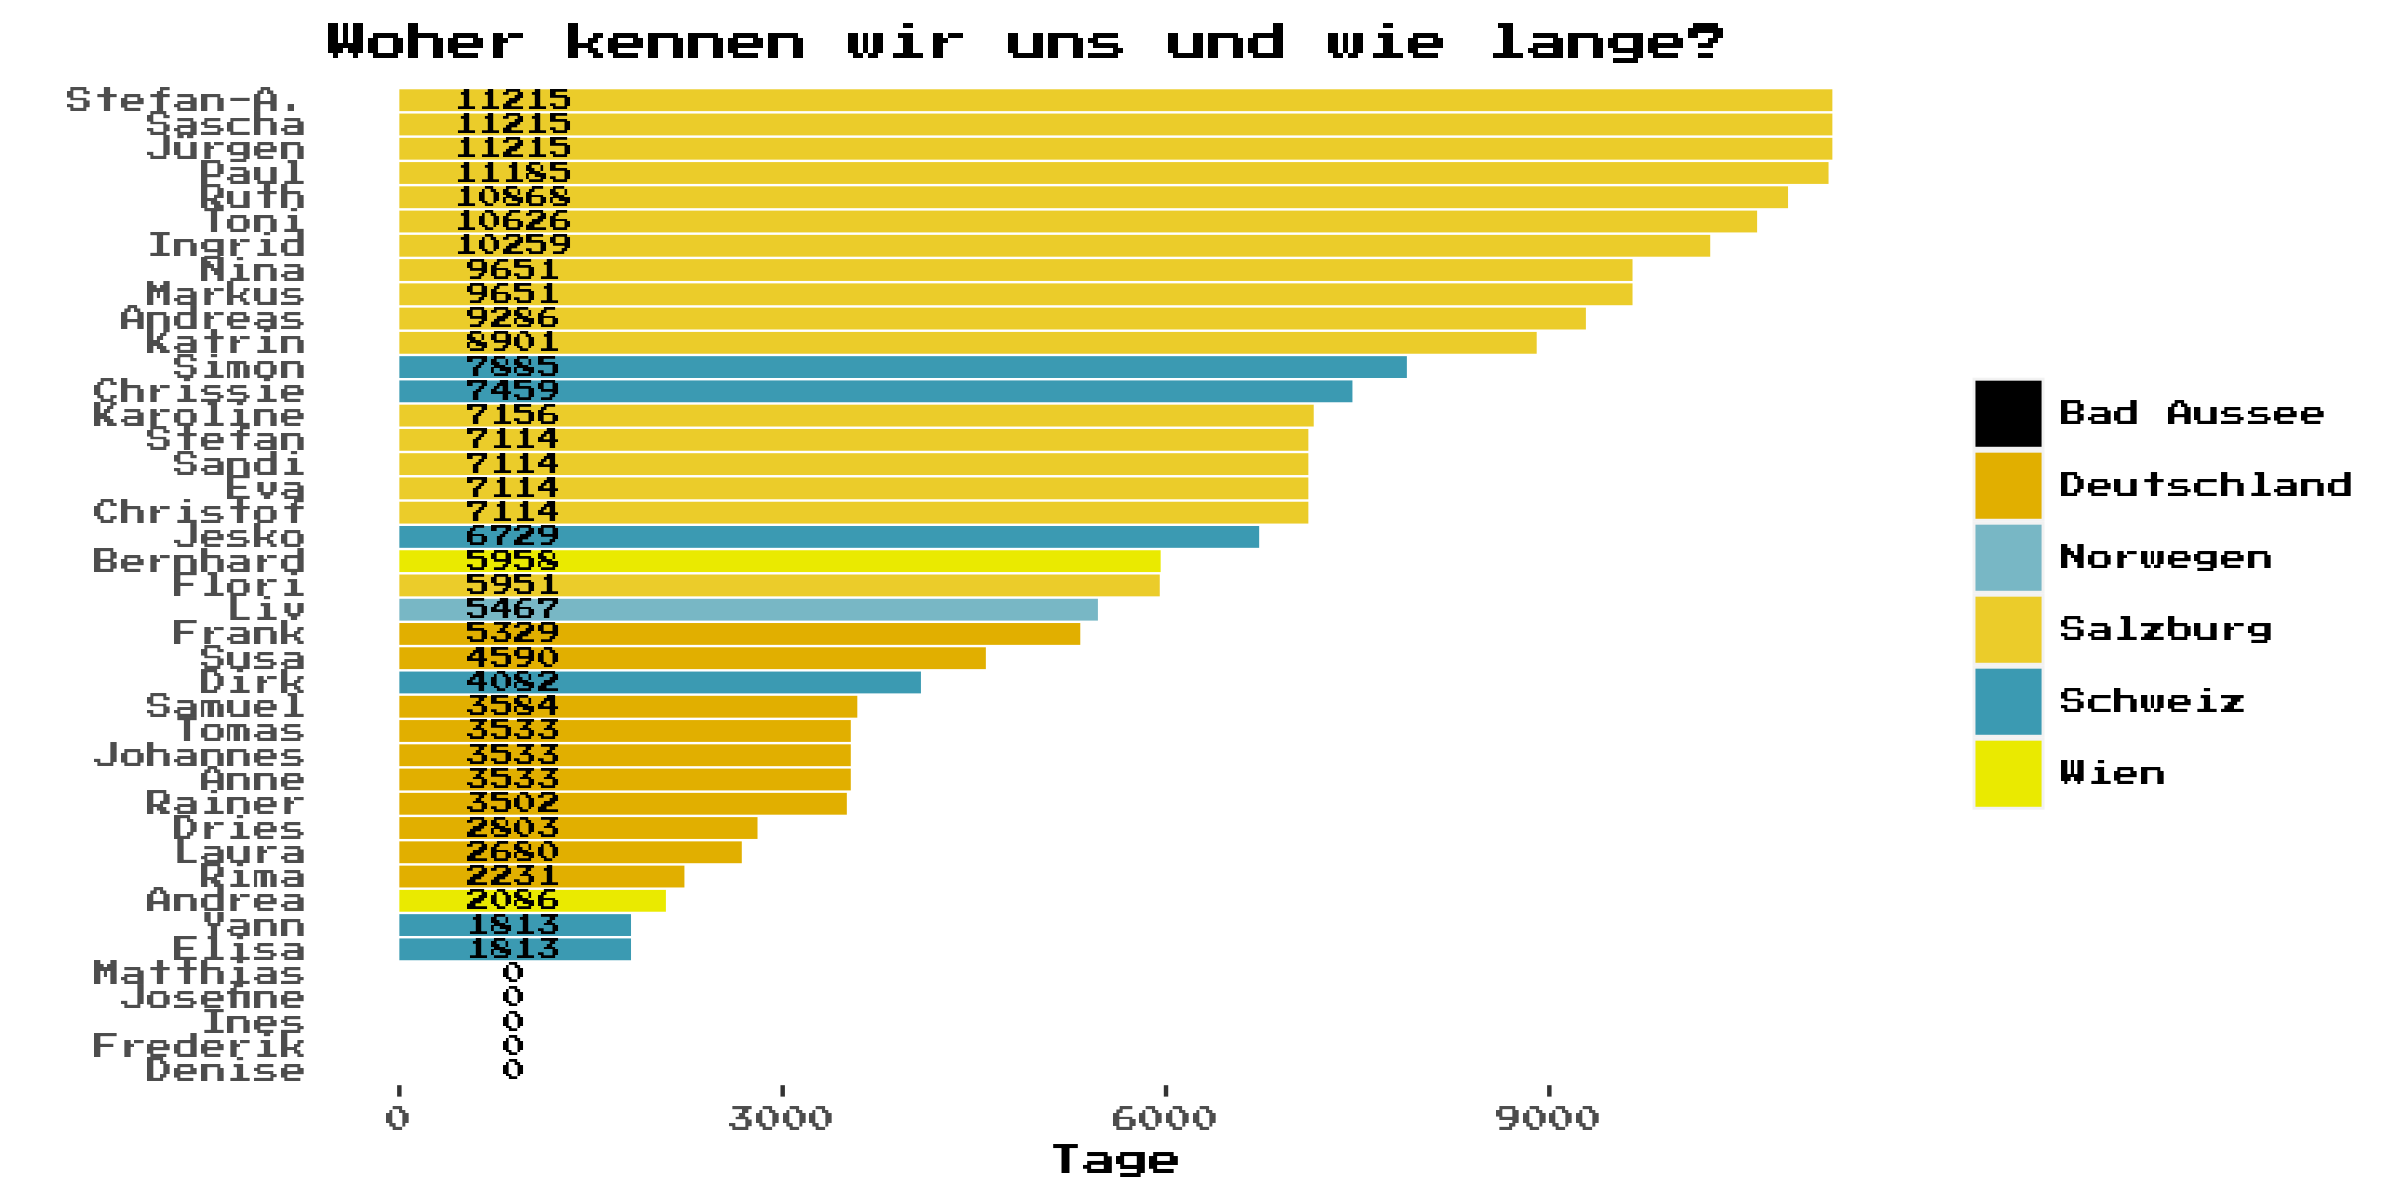
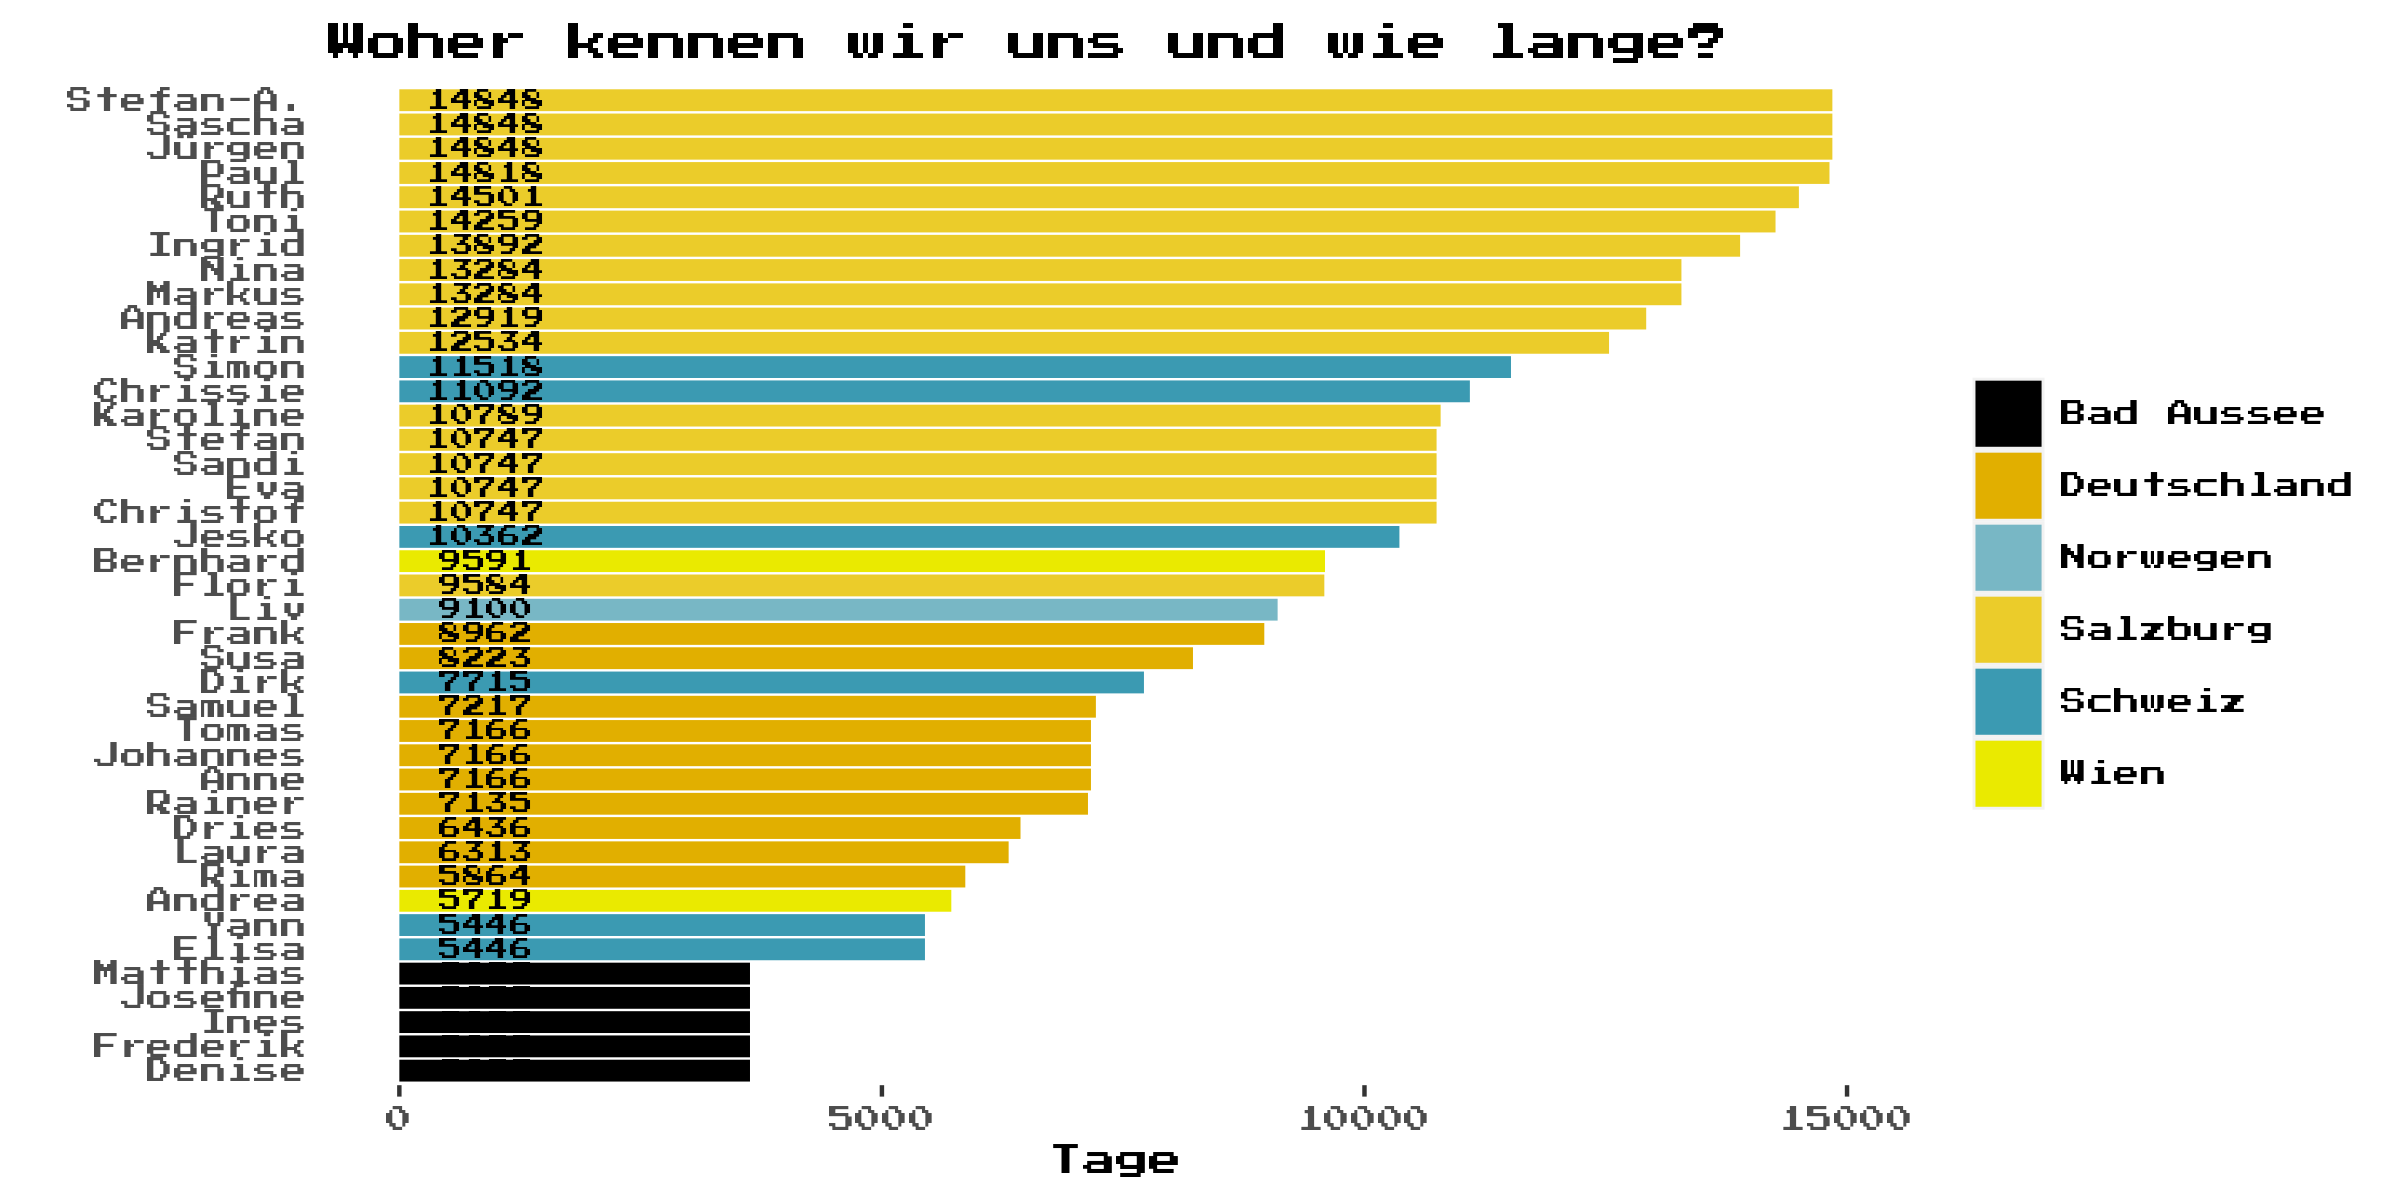
2032

diff --git a/history.html b/history.html
@@ -6,13 +6,7 @@
   <link rel="stylesheet" href="my_css.css">
 </head>
 
-<!-- 
-> ymd(20220604) - ymd(19721231)
-Time difference of 18052 days
-Hallo Simon und Dirk!
--->
-
-<h1>18052 reasons to celebrate</h1>
+<h1>21685 reasons to celebrate</h1>
 
 <img src = 'R/history.png'>
 
